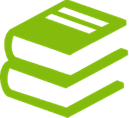
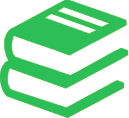
TECH-1700 bootstrap gem: updated colors and assets to match brand

diff --git a/source/_static/css/custom.css b/source/_static/css/custom.css
@@ -12,12 +12,12 @@ body {
 }
 
 a, a:visited {
-  color: #54C4EC;
+  color: #00ACF1;
   text-decoration: none;
 }
 a:hover,
 a:focus {
-  color: #2a6496;
+  color: #0088be;
   text-decoration: none;
 }
 
@@ -29,6 +29,10 @@ img.logo {
   width: 232px !important;
   height: 82px !important;
   padding: 0px !important;
+}
+
+.wy-side-nav-search, .wy-side-nav-search>a:hover {
+  background: transparent;
 }
 
 img.info-img {
@@ -170,7 +174,7 @@ code.docutils.literal {
   word-break: break-all;
   word-wrap: break-word !important;
   color: #FFFFFF;
-  background-color: #7FBC0D;
+  background-color: #2CBF58;
   border-radius: 4px;
   padding: 6px 4px 4px 4px !important;
   font-size: 14px !important;
@@ -184,7 +188,7 @@ pre {
 /* applied to <pre> for multi-line preformatted text */
 .literal-block {
   color: #FFFFFF;
-  background-color: #7FBC0D !important;
+  background-color: #2CBF58 !important;
   font-family: Consolas, monospace;
   font-size: 14px !important;
   border: none !important;
@@ -204,7 +208,7 @@ pre {
 
 cite  {
   color: #FFFFFF;
-  background-color: #7FBC0D !important;
+  background-color: #2CBF58 !important;
   font-family: Consolas, monospace;
   font-size: 14px !important;
   border: none !important;
@@ -230,7 +234,6 @@ cite  {
 /*********************LEFT HAND NAV************************/
 /* search box */
 .wy-side-nav-search {
-  background-color: inherit;
   margin-bottom: 10px !important;
   padding-bottom: 0px !important;
 }
@@ -273,20 +276,20 @@ cite  {
 }
 
 .wy-menu-vertical a {
-  color: rgb(132, 188, 13);
+  color: #2CBF58;
 }
 
 .wy-menu-vertical a:hover {
-  color: #84BC0D;
+  color: #2CBF58;
 }
 
 .wy-menu-vertical li.current a:hover {
-  color: #84BC0D;
+  color: #2CBF58;
 }
 
 /* make nav links green */
 .wy-menu-vertical li.current > a {
-  color: rgb(132, 188, 13);
+  color: #2CBF58;
   background-color: rgb(48, 48, 48);
 }
 
@@ -362,6 +365,10 @@ cite  {
 /* rst content lives inside wy-nav-content */
 .rst-content {
   max-width: 1200px;
+}
+
+.rst-content .highlight {
+  background-color: #EBB336;
 }
 
 .rst-content code {
@@ -567,7 +574,7 @@ table.parameters .row-odd {
 }
 
 #welcome-to-the-invoca-developer-portal table.home-page.docutils .rubric {
-  color: #84BC0D;
+  color: #2CBF58;
   font-size: 29px;
 }
 
